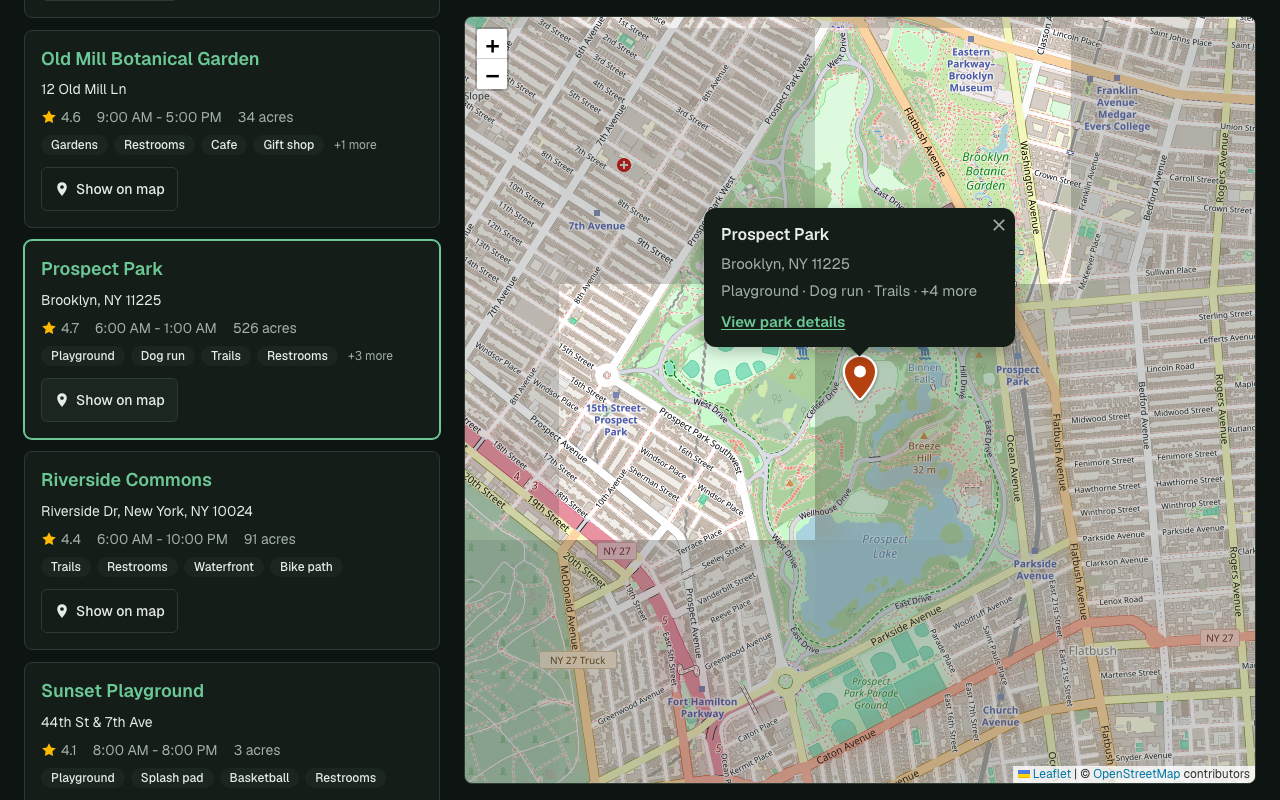
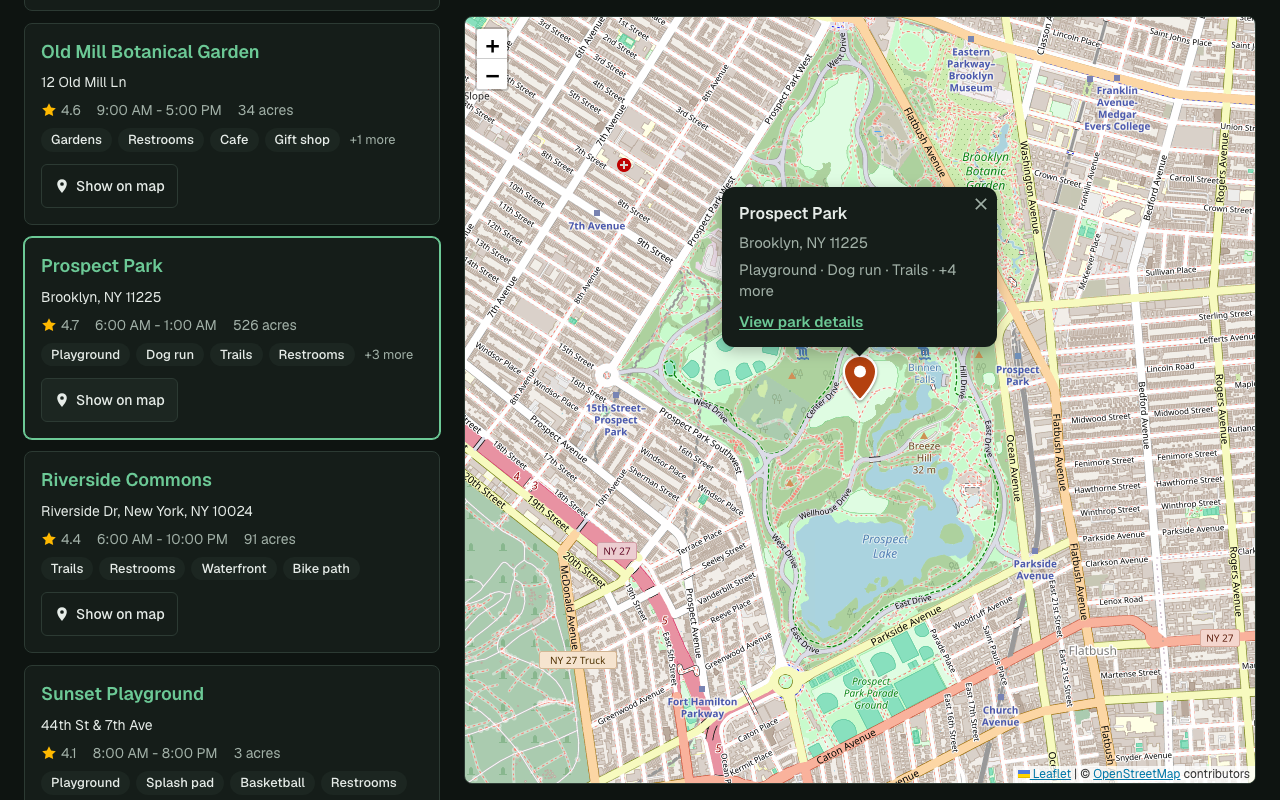
Write README; fix inaccuracies found by a fresh-clone walkthrough
- README covers what the brief asks for: run instructions, what works,
  what's left out, decisions, data handling, accessibility, how it was
  checked (incl. bugs found), known issues, next steps. Time spent, review
  notes and AI use are left for the candidate.
- Correct claims a fresh reader found wrong: test counts, touch target
  sizes, static vs. server rendering, what an API swap involves.
- CI now runs on every push, not only main.
- Add an axe scan of the tile-failure and selected-park states.
- Regenerate screenshots after the review fixes.

diff --git a/e2e/accessibility.spec.ts b/e2e/accessibility.spec.ts
@@ -1,6 +1,6 @@
 import AxeBuilder from "@axe-core/playwright";
 import type { Page } from "@playwright/test";
-import { expect, openMapView, test } from "./fixtures";
+import { expect, openMapView, test, TILE_URL_PATTERN } from "./fixtures";
 
 /**
  * Automated WCAG 2.2 AA checks. These catch a useful subset of problems
@@ -109,4 +109,28 @@ test.describe("reflow at 320 CSS pixels (WCAG 1.4.10, ~400% zoom)", () => {
       expect(overflow).toBeLessThanOrEqual(0);
     });
   }
+});
+
+test.describe("failure and selection states", () => {
+  test("home page with a selected park and the tile-failure notice", async ({
+    page,
+    isMobile,
+  }) => {
+    await page.unroute(TILE_URL_PATTERN);
+    await page.route(TILE_URL_PATTERN, (route) => route.abort());
+    await page.goto("/");
+    await page
+      .getByRole("button", { name: "Show on map: Prospect Park" })
+      .click();
+    await expect(
+      page.getByText("The map background couldn’t load."),
+    ).toBeVisible();
+    // Scan the map with its notice, then (on phones) the list, whose card for
+    // the selected park is highlighted.
+    await expectNoViolations(page);
+    if (isMobile) {
+      await page.getByRole("button", { name: "List", exact: true }).click();
+      await expectNoViolations(page);
+    }
+  });
 });

diff --git a/src/components/park-map.tsx b/src/components/park-map.tsx
@@ -132,7 +132,8 @@ function markerIcon(selected: boolean) {
   return L.divIcon({
     html: PIN_SVG,
     className: selected ? "park-marker park-marker--selected" : "park-marker",
-    // A 44x44 target (WCAG 2.5.5); the pin is drawn bottom-centered in it
+    // A comfortable 44x44 target (WCAG 2.5.5; AA's 2.5.8 needs only 24px);
+    // the pin is drawn bottom-centered in it
     // (see .park-marker in globals.css), so its tip is at (22, 42).
     iconSize: [44, 44],
     iconAnchor: [22, 42],

diff --git a/src/lib/parks/normalize.test.ts b/src/lib/parks/normalize.test.ts
@@ -200,7 +200,7 @@ describe("normalizeParks", () => {
     ["acreage", 0],
     ["acreage", -3],
     ["acreage", Number.POSITIVE_INFINITY],
-  ])("drops an invalid %s of %s", (field, value) => {
+  ])("drops an invalid %s value of %j", (field, value) => {
     const { park, warnings } = normalizeOne({ ...minimal, [field]: value });
     expect(park[field as "rating" | "acreage"]).toBeNull();
     expect(warnings).toHaveLength(1);

diff --git a/README.md b/README.md
@@ -11,16 +11,23 @@ and directions. Built for the Granicus "Find a Park" take-home.
 
 ## Run it
 
-Requirements: **Node 24** (pinned in `.nvmrc` and `.tool-versions`) and
-**pnpm 10** (`corepack enable` will provide it). No API keys or accounts are
-needed.
+Requirements: **Node 24** (pinned in `.nvmrc` and `.tool-versions`),
+**pnpm 10** (`corepack enable` will provide it), and an internet connection
+(the Geist font is downloaded from Google Fonts during `dev` and `build`). No
+API keys or accounts are needed.
 
 ```bash
-pnpm install
+pnpm install                            # also installs a git pre-commit hook (Prettier)
 pnpm dev                                # http://localhost:3000
 ```
 
-Production build: `pnpm build && pnpm start`.
+Production: `pnpm build && pnpm start`. The app needs a Node server (`next
+start` or a Node host); it isn't a static export, because unknown park URLs
+are rendered on request to return a real 404.
+
+Optional, read at **build** time: `NEXT_PUBLIC_MAP_TILE_URL` and
+`NEXT_PUBLIC_MAP_TILE_ATTRIBUTION` point the map at another tile provider. If
+you set a custom URL, set its attribution too (it defaults to empty).
 
 ### Checks
 
@@ -30,7 +37,9 @@ pnpm exec playwright install chromium   # once, for the browser tests
 pnpm test:e2e                           # end-to-end + accessibility, desktop and phone
 ```
 
-CI (`.github/workflows/ci.yml`) runs both on every push and pull request.
+`pnpm test:e2e` builds the app and serves it on port 3100 (`E2E_PORT` changes
+it); locally it reuses a server already running on that port. CI
+(`.github/workflows/ci.yml`) runs both on every push and pull request.
 
 ## What works
 
@@ -72,9 +81,9 @@ Works without the resident's location; the app never asks for it.
 ## Important decisions
 
 - **Next.js 16 (App Router) + TypeScript**, starting from the official
-  `create-next-app` template rather than a third-party boilerplate. Every
-  page is prerendered at build time from the JSON file; there is no server
-  data access at request time.
+  `create-next-app` template rather than a third-party boilerplate. The home
+  page and every park page are prerendered at build time from the JSON file;
+  only unknown park URLs are rendered on request (to return a real 404).
 - **Leaflet with OpenStreetMap tiles.** No API key for the interviewer to
   supply, a small bundle, and markers that are keyboard-focusable out of the
   box. The trade-off: OSM's public tile servers don't allow production
@@ -89,8 +98,10 @@ Works without the resident's location; the app never asks for it.
   low-bandwidth users.
 - **One normalization step at the edge.** `src/lib/parks/normalize.ts` turns
   the raw JSON into a `Park` type where every optional field is a real value
-  or `null`/`[]`. UI code never re-checks the raw shape, and swapping in an
-  API later only changes `src/lib/parks/data.ts`.
+  or `null`/`[]`. UI code never re-checks the raw shape, and pages only talk
+  to `getParks`/`getPark` in `src/lib/parks/data.ts`. Swapping in an API means
+  changing that module and making those two functions (and their three
+  callers) async.
 - **Visit info first on the details page.** On phones, hours, address and
   directions come before the description and photos, because that's what
   most people opening a park page need.
@@ -102,22 +113,24 @@ I did not extend the schema.
 
 How missing or invalid values are handled (`src/lib/parks/normalize.ts`):
 
-| Situation                                        | What the app does                                  |
-| ------------------------------------------------ | -------------------------------------------------- |
-| Missing/blank text (description, hours, address) | Shows "Not listed" / "No description available."   |
-| Missing or invalid coordinates (incl. 0,0)       | Park stays in the list, says it isn't on the map   |
-| Empty or missing amenities/images                | "No amenities listed." / "No photos available."    |
-| Image URL that isn't http(s), or fails to load   | Dropped / replaced with a "Photo unavailable" tile |
-| Rating outside 0–5, non-positive acreage         | Treated as missing                                 |
-| No usable id or name, or a duplicate id          | Record skipped (it can't be shown or linked to)    |
+| Situation                                                                    | What the app does                                                                                                                                       |
+| ---------------------------------------------------------------------------- | ------------------------------------------------------------------------------------------------------------------------------------------------------- |
+| Missing/blank/non-text description, hours or address                         | Details page: "Not listed" / "No description available." List card: "Address not listed"; missing hours, size or rating are simply left out of the card |
+| Missing or invalid coordinates (incl. 0,0)                                   | Park stays in the list, which says it isn't on the map; the details page says directions aren't available                                               |
+| Empty or missing amenities/images                                            | "No amenities listed." / "No photos available."                                                                                                         |
+| Amenity with no letters or digits (e.g. `"-"`)                               | Dropped                                                                                                                                                 |
+| Image URL that isn't http(s), or fails to load                               | Dropped / replaced with a "Photo unavailable" tile                                                                                                      |
+| Rating that isn't a number from 0 to 5; acreage that isn't a positive number | Treated as missing                                                                                                                                      |
+| Not an object, no name, no URL-safe id, or a duplicate id                    | Record skipped (it can't be shown or linked to)                                                                                                         |
 
 Every skipped record or ignored value is logged at build time so data
 problems are visible. Issues I noticed in the sample data:
 
 - **Cedar Hill Nature Preserve's coordinates (40.7128, -74.006) are exactly
   the commonly used "New York City" point at City Hall**, which suggests a
-  placeholder. I show it where the data says rather than guess a location,
-  and flag it here.
+  placeholder. I show it where the data says: the app has no way to know
+  the real location, and warning residents based on my guess would be
+  inventing details too. It should be fixed at the source.
 - All image URLs point to `images.example.com`, which doesn't exist, so every
   photo shows the "Photo unavailable" placeholder.
 - Several addresses are partial ("Ridge Rd", "1 Plaza Way"), so directions
@@ -129,15 +142,22 @@ problems are visible. Issues I noticed in the sample data:
 
 Target: WCAG 2.2 AA.
 
-- Skip link; landmarks and a logical heading order on every page; one
-  consistent, high-contrast focus outline (3px) everywhere.
+- Skip link; landmarks and a logical heading order on every page; a
+  consistent 3px focus outline on every control (on the map, a two-tone
+  version so it shows on any tile).
 - Every task works with a keyboard alone. Map markers are buttons with a
   descriptive name (e.g. "Prospect Park, Brooklyn, NY 11225. Show park
   summary."), open with Enter or Space, move focus into the popup, and
   Escape closes it and returns focus to where it came from. Leaflet doesn't
   do the last three on its own (`src/components/park-map.tsx`).
-- Search results are announced via a live region; the List/Map toggle uses
-  `aria-pressed`; touch targets are at least 44px.
+- After a page change, focus moves to the new page's heading; coming back
+  to the list puts focus on the park you opened.
+- The map itself is a named group with keyboard instructions (arrow keys
+  pan, +/- zoom).
+- Search results are announced via a live region (once typing pauses); the
+  List/Map toggle uses `aria-pressed`. The app's buttons and map markers are
+  at least 44×44px; Leaflet's zoom buttons (30px on touch screens) and the
+  popup close button (32px) meet WCAG 2.2's 24px minimum.
 - Color contrast is at least 4.5:1 for text in both color schemes; motion is
   reduced when the device asks for it; pages reflow without horizontal
   scrolling down to 320px (about 400% zoom).
@@ -146,21 +166,29 @@ Target: WCAG 2.2 AA.
 
 **Automated** (all run in CI):
 
-- 47 unit and component tests (Vitest + Testing Library): data
+- 49 unit and component tests (Vitest + Testing Library): data
   normalization for every missing/invalid case, search, formatting, the photo
   fallback and sparse park cards.
-- 65 browser tests (Playwright) against a production build, on a desktop
-  and a phone viewport: keyboard-only flows (list → details, markers with
-  Enter/Space/Escape, skip link), search, the 404 page, missing data on the
-  real sample parks, map tiles failing, the map code failing, and a
-  regression test for going Back to the map. External requests are stubbed,
-  so tests send no traffic to OpenStreetMap.
-- axe-core WCAG 2.2 AA scans of each page state in light and dark mode, plus
-  reflow checks at 320px.
+- 82 browser tests (Playwright; 79 run, 3 apply to one device only)
+  against a production build, on a desktop and a phone viewport: keyboard-only flows (list → details, markers with
+  Enter/Space/Escape, skip link, focus after navigation), search, the 404
+  page, missing data on the real sample parks, map tiles failing, the map
+  code failing, and regression tests for each bug below. External requests
+  are stubbed, so tests send no traffic to OpenStreetMap.
+- axe-core WCAG 2.2 AA scans of 7 page states (list, open popup, no search
+  results, full and sparse details, 404, and a selected park with the
+  map-tiles-failed notice), in light and dark mode, plus reflow checks at
+  320px.
 
 **Manual**: I used the app in a browser at phone and desktop sizes, in both
 color schemes, with mouse and keyboard only, and reviewed screenshots of each
-screen (`pnpm screenshots` regenerates them).
+screen (`pnpm screenshots` regenerates them; unlike the tests, it loads
+real map tiles, so run it by hand, occasionally).
+
+**Independent review**: two separate AI review passes, each without any
+context from the build, audited the code: one for accessibility (WCAG 2.2
+AA), one for correctness against this brief. I verified each finding before
+acting on it; two claims turned out to be wrong or already fixed.
 
 **Problems the checks found** (each fixed and, where possible, covered by a
 test):
@@ -181,6 +209,19 @@ test):
    because react-leaflet keeps popup content mounted after the first open.
 5. **Escape didn't close popups** while focus was inside them (Leaflet only
    listens when the map itself is focused).
+6. **Going Back replayed the last "Show on map"**, jumping the map away
+   from where you left it: React re-runs effects when Next.js re-shows a
+   hidden page. Requests are now handled exactly once.
+7. **"Show on map" could leave the park off-center**: opening the popup
+   during the pan animation stopped the pan. A trace of the map's transforms
+   showed it; the popup now opens when the map arrives.
+8. **Pins were drawn about 4px above their location**: Leaflet's stylesheet
+   overrode the pin's positioning. Now tested to the pixel.
+9. **Focus was stranded after navigating** (Next.js leaves it to the app):
+   focus now moves to the new page's heading, and back to the park you opened
+   when you return.
+10. **The map's own focus ring was clipped, and invisible in dark mode** over
+    the (always light) map tiles; the map now uses a two-tone ring.
 
 **Review**: _[Your own review notes go here — e.g. the code you read most
 closely and how you checked it.]_
@@ -191,16 +232,21 @@ closely and how you checked it.]_
   marker is a 44×44px target, and every marker action is also available from
   the list (WCAG 2.5.8's "equivalent control" exception), so the overlap is
   accepted in the accessibility tests for markers only.
-- After you open a park and go Back, that park stays highlighted on the map
-  and in the list. This is deliberate ("you were here"), but it's a judgment
-  call worth testing with residents.
+- If a park's popup was open when you left, that park is still highlighted
+  (and focused) when you come Back. I kept this as a "you were here" cue, but
+  it's a judgment call worth testing with residents.
+- Leaflet's zoom buttons come after the markers in Tab order. The list is the
+  primary keyboard path, so I didn't fight Leaflet's DOM order.
+- Only tested in Chromium (at desktop and phone sizes). Screen reader output
+  was checked through the accessibility tree, not with VoiceOver or NVDA.
 - The OSM tile servers' usage policy rules them out for production (see
   Decisions).
 - The Geist font is fetched from Google Fonts at build time, so
   `pnpm build` needs internet access.
 - If Next.js discards the hidden home page after many navigations, the Leaflet
-  map behind it is not explicitly destroyed (a small memory leak in long
-  sessions; see the comment in `stable-map-container.tsx`).
+  map behind it is never explicitly destroyed; it holds no global listeners,
+  so it should simply be garbage-collected (see the comment in
+  `stable-map-container.tsx`).
 
 ## Time spent
 
@@ -216,7 +262,8 @@ _[Fill in.]_
 3. **Usability testing with residents**, including screen reader users
    (VoiceOver, NVDA) and people on low-end phones — automated checks don't
    replace this.
-4. **Hosting and operations**: deploy as a static site/CDN, error monitoring
+4. **Hosting and operations**: deploy to a Node host (or Vercel) behind a
+   CDN, error monitoring
    (the error boundaries already log), uptime checks, and a privacy-friendly
    analytics decision.
 5. **Content and language**: plain-language review, translations for the
@@ -234,7 +281,13 @@ src/components/park-explorer.tsx  search, List/Map toggle, shared selection
 src/components/park-list.tsx    park cards
 src/components/park-map.tsx     Leaflet map, accessible markers and popups
 src/components/stable-map-container.tsx  Leaflet map that survives navigation
-e2e/                            Playwright tests (incl. accessibility)
+src/components/render-when-visible.tsx   defers the map until it's shown
+src/components/map-error-boundary.tsx    keeps the list working if the map fails
+src/components/park-photos.tsx  photos with "Photo unavailable" fallbacks
+src/components/route-focus.tsx  focus management after navigation
+src/app/not-found.tsx, error.tsx, global-error.tsx  404 and error pages
+e2e/                            Playwright tests (incl. accessibility, regressions)
+scripts/screenshots.spec.ts     regenerates docs/screenshots
 ```
 
 ## AI use
